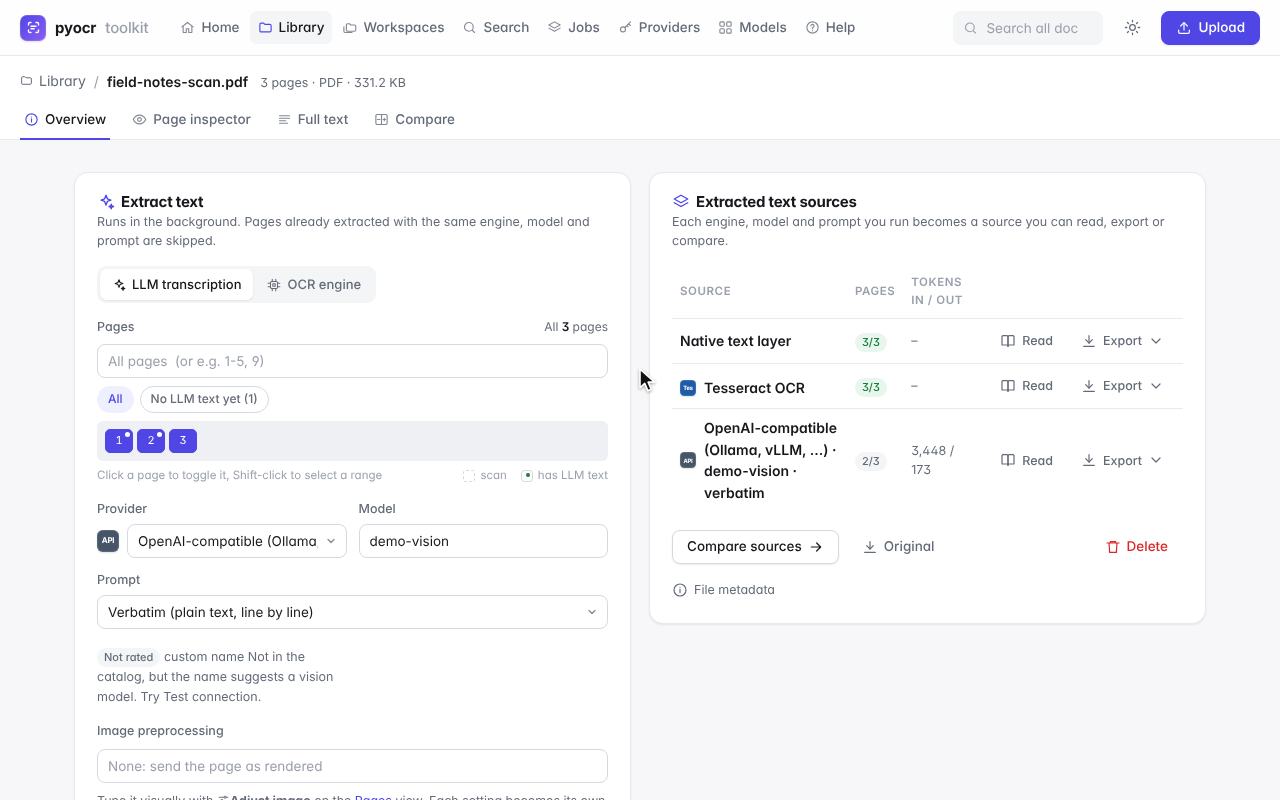
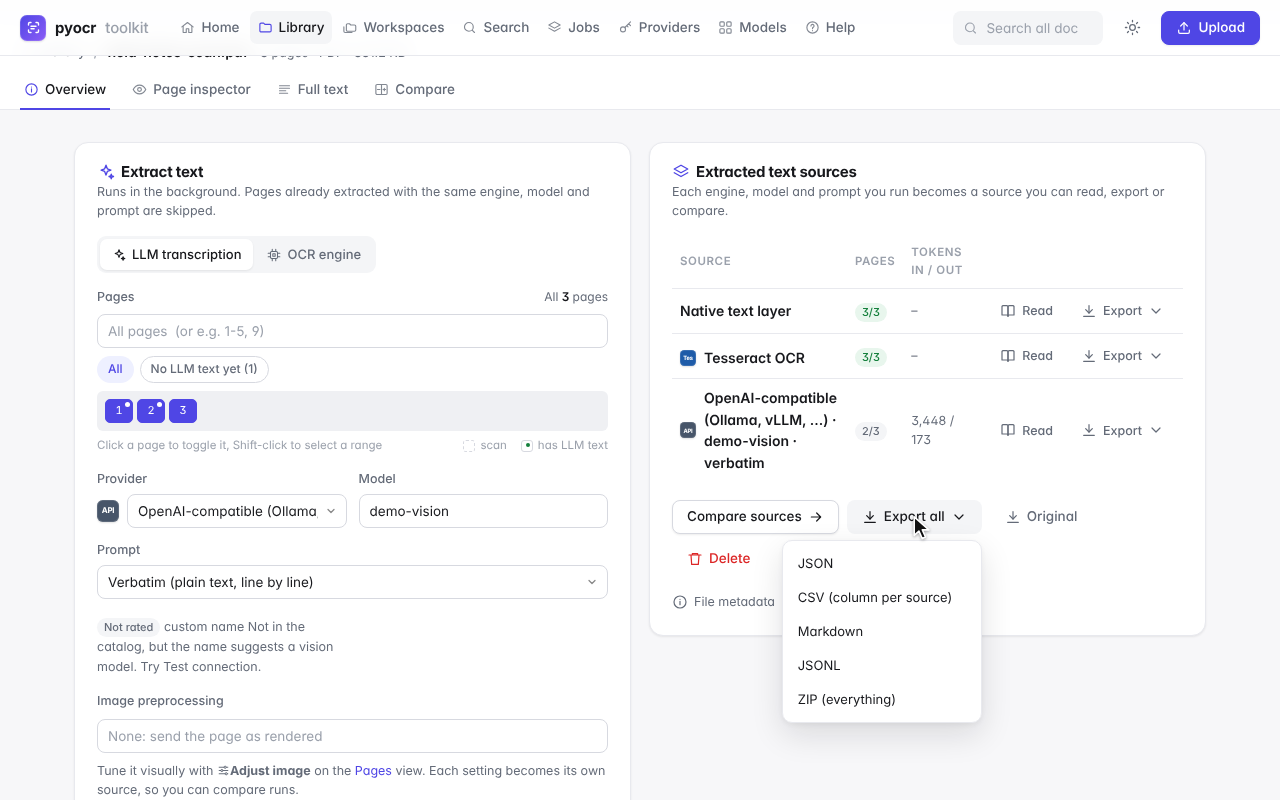
Library tour: scroll to the sources and open the Export all menu
Claude-Session: https://claude.ai/code/session_01WWGEtWW2BReTTArzJv7Wo8

diff --git a/.claude/skills/demo/tour_shots.py b/.claude/skills/demo/tour_shots.py
@@ -301,10 +301,15 @@ def play_search(tour: Tour, app: DemoApp, ids: dict[str, str]) -> None:
 
 
 def play_library(tour: Tour, app: DemoApp, ids: dict[str, str]) -> None:
-    """The library, then a document's overview and its sources."""
+    """The library, then a document's overview and its sources, exported all at once."""
     page = tour.page
     tour.goto("/documents", hold=2.0)
     tour.click(page.locator("a", has_text="field-notes-scan.pdf").first, hold=2.4)
+    export_all = page.locator("summary", has_text="Export all")
+    # bring the sources table and the button into view, leaving room below it for the opened menu
+    top = page.evaluate("(el) => el.getBoundingClientRect().top", export_all.element_handle())
+    tour.scroll(max(0, int(top - (VIEWPORT["height"] - 300))), hold=1.4)
+    tour.click(export_all, hold=2.6)
 
 
 @dataclass
